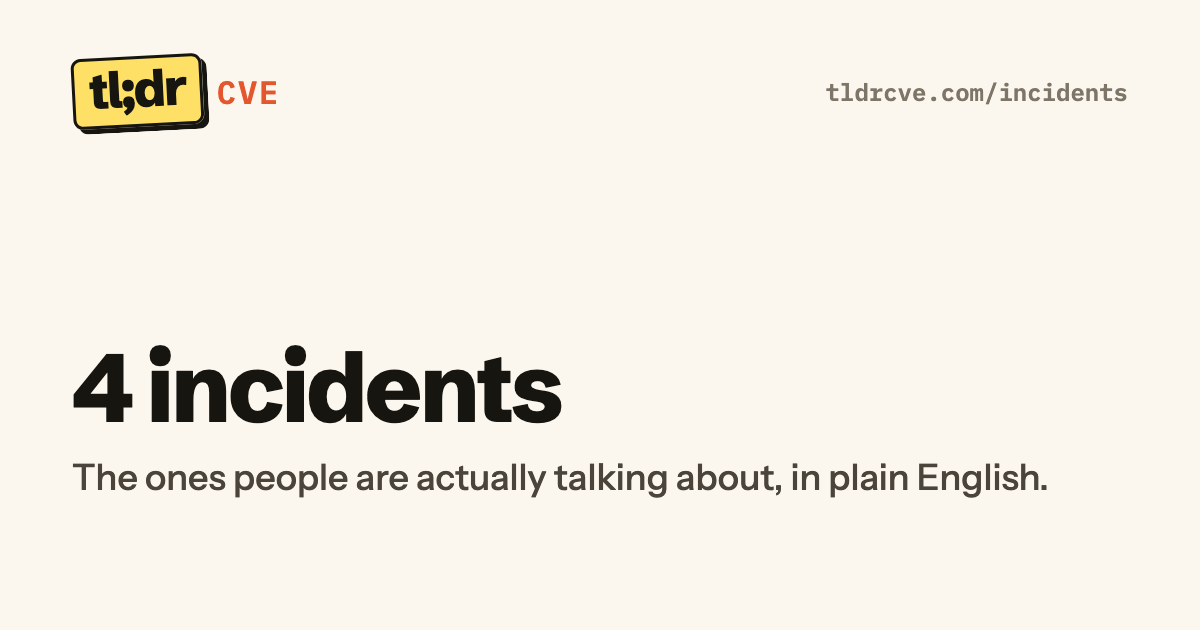
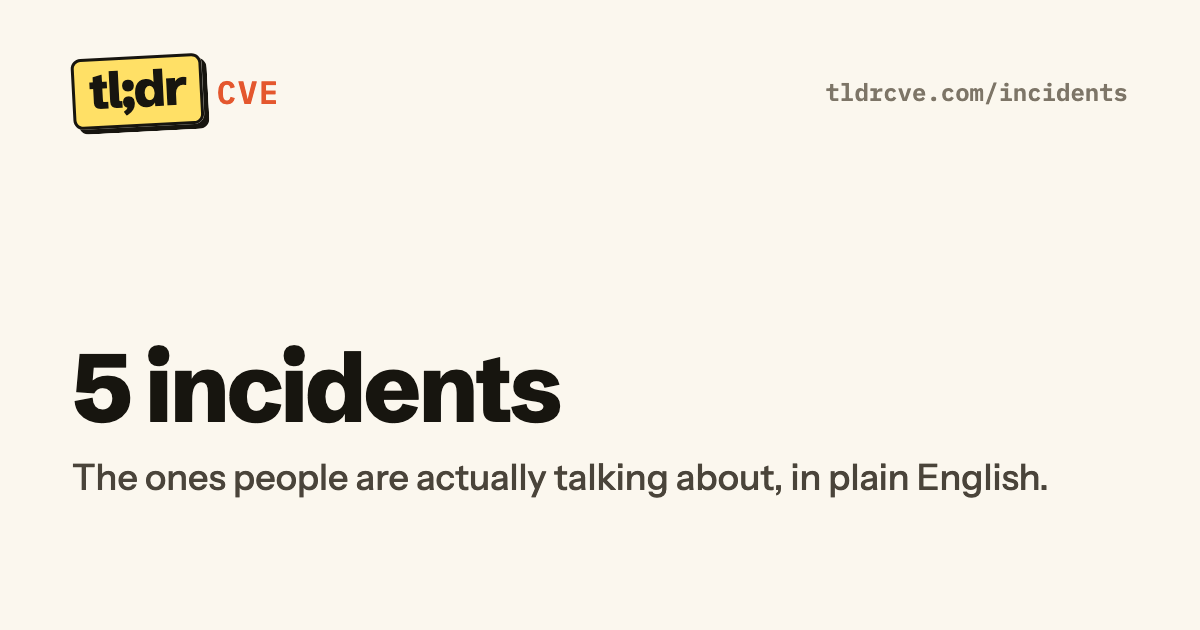
Add Todoist breach incident page; incidents use their own scale everywhere
- New incident page: Todoist breach (Nov 2026). A stolen version control
  credential led to Todoist's production systems; emails and salted SHA1
  password hashes of about 6% of users were taken, plus some tokens and
  secrets. Severe; no CVE.
- build.py: llms.txt, the page and index JSON, feed categories, the X share
  text, the small meters and the product and week lists now label incidents
  "Incident" and on the incident scale (Minor to Severe) instead of the
  patch verdict and scare-o-meter. /api/cves.json lists the incident labels.
- Cards: Todoist; home and Incidents counts redrawn.

Changed region(s): [[0.0617, 0.5429, 0.3083, 0.6937], [0.3392, 0.6032, 0.4625, 0.6635]]

diff --git a/build.py b/build.py
@@ -257,12 +257,13 @@ def gauge(scare: float, zones: list = None) -> str:
         </div>"""
 
 
-def mini_meter(scare: float) -> str:
-    # Same zones as the big gauge, so the tile and the page always agree.
-    filled = next((i + 1 for i, (limit, _, _) in enumerate(ZONES) if scare < limit), len(ZONES))
+def mini_meter(scare: float, zones: list = None) -> str:
+    # Same zones as the big gauge, so the tile and the page always agree (incidents use their own).
+    zones = zones or ZONES
+    filled = next((i + 1 for i, (limit, _, _) in enumerate(zones) if scare < limit), len(zones))
     segs = "".join(f'<span class="{"on" if i < filled else ""}"></span>' for i in range(4))
-    label, _ = zone(scare)
-    return f'<span class="mini-meter" data-level="{filled}" role="img" aria-label="Scare-o-meter: {label}">{segs}</span>'
+    label, _ = zone(scare, zones)
+    return f'<span class="mini-meter" data-level="{filled}" role="img" aria-label="{"How bad" if zones is INCIDENT_ZONES else "Scare-o-meter"}: {label}">{segs}</span>'
 
 
 # ---------- Brief page ----------
@@ -482,7 +483,7 @@ def versions_embed(pids: list) -> str:
 
 def toolbar(c: dict) -> str:
     url = f"{SITE_URL}/{c['slug']}/"
-    post = quote(f"{c['name']}{cve_paren(c)}: {VERDICTS[c['verdict']]}. Are you affected?")
+    post = quote(f"{c['name']}{cve_paren(c)}: {badge_text(c)}. Are you affected?")
     x = f"https://x.com/intent/post?text={post}&url={quote(url, safe='')}"
     li = f"https://www.linkedin.com/sharing/share-offsite/?url={quote(url, safe='')}"
     return f"""    <div class="toolbar">
@@ -695,7 +696,7 @@ def versions_page(v: dict, all_c: list) -> str:
         else:
             fix = '<span class="nofix">No fix yet</span>'
         bugs.append(f'''      <li class="vbug"><a href="/{c["slug"]}/">
-        <span class="vbug__top"><span class="vbug__name">{html.escape(c["name"])}</span><span class="verdict verdict--{c["verdict"]}">{VERDICTS[c["verdict"]]}</span></span>
+        <span class="vbug__top"><span class="vbug__name">{html.escape(c["name"])}</span>{badge(c)}</span>
         <span class="vbug__meta">{html.escape(cve_list(c) or "No CVE yet")} · {nice_date(c["disclosed"])}</span>
         <span class="vbug__fix">{fix}</span>
       </a></li>''')
@@ -913,7 +914,7 @@ def week_page(wk: dict, all_c: list) -> str:
     new_block = f'    <ul class="tiles">\n{new_tiles}\n    </ul>' if top else '    <p class="muted">No new pages.</p>'
     if rest:
         rest_rows = "\n".join(
-            f'        <li data-search="{html.escape(page_search(c) + " " + c["tile_line"].lower())}"><span class="verdict verdict--{c["verdict"]}">{VERDICTS[c["verdict"]]}</span><span><a href="/{c["slug"]}/">{html.escape(c["name"])}</a> <span class="muted">{text(c["tile_line"])}</span></span></li>'
+            f'        <li data-search="{html.escape(page_search(c) + " " + c["tile_line"].lower())}">{badge(c)}<span><a href="/{c["slug"]}/">{html.escape(c["name"])}</a> <span class="muted">{text(c["tile_line"])}</span></span></li>'
             for c in rest)
         rest_block = f"""
     <section class="pane" data-week-section>
@@ -1055,7 +1056,7 @@ def tile(c: dict, attrs: str = "", when: str = "") -> str:
           <span class="tile__meta"><span class="tile__product">{html.escape(product_short(c))}</span><span>· {when}</span></span>
           <span class="tile__name">{html.escape(c["name"])}</span>
           <span class="tile__line">{text(c["tile_line"])}</span>
-          <span class="tile__foot">{badge(c)}{roundup_tag(c)}{mini_meter(c["status"]["scare"])}</span>
+          <span class="tile__foot">{badge(c)}{roundup_tag(c)}{mini_meter(c["status"]["scare"], INCIDENT_ZONES if is_incident(c) else None)}</span>
         </a>
       </li>"""
 
@@ -1114,7 +1115,7 @@ def cves_page(all_c: list) -> str:
         rows.append(
             f"""      <li class="row{" row--incident" if is_incident(c) else ""}" data-search="{html.escape(search)}" data-scare="{c["status"]["scare"]}" data-disclosed="{c["disclosed"]}"{' data-incident="1" hidden' if is_incident(c) else ""}>
         <a href="/{c["slug"]}/">
-          <span class="row__meter">{mini_meter(c["status"]["scare"])}</span>
+          <span class="row__meter">{mini_meter(c["status"]["scare"], INCIDENT_ZONES if is_incident(c) else None)}</span>
           <span class="row__main">
             <span class="row__name">{html.escape(c["name"])}</span>
             <span class="row__meta">{html.escape(product_short(c))} · {html.escape(cve_list(c) or "No CVE yet")}</span>
@@ -1176,7 +1177,7 @@ def incidents_page(all_c: list) -> str:
                            *c.get("aliases", [])]).lower()
         rows.append(f"""      <li class="row" data-search="{html.escape(search)}" data-scare="{c["status"]["scare"]}" data-disclosed="{when}">
         <a href="/{c["slug"]}/">
-          <span class="row__meter">{mini_meter(c["status"]["scare"])}</span>
+          <span class="row__meter">{mini_meter(c["status"]["scare"], INCIDENT_ZONES if is_incident(c) else None)}</span>
           <span class="row__main">
             <span class="row__name">{html.escape(c["name"])}</span>
             <span class="row__meta">{html.escape(product_short(c))} · {html.escape(cve_list(c) or "No CVE")}</span>
@@ -1607,7 +1608,7 @@ def feed_entries(all_c: list, weeks: bool = True) -> list:
         new = t == "Published."
         s = c["status"]
         tags = [("type", "New page" if new else "Update"), ("verdict", badge_text(c)),
-                ("scare", zone(s["scare"])[0]), ("exploit", EXPLOIT_LABELS[s["exploit"]][1]),
+                ("scare", scare_label(c)), ("exploit", EXPLOIT_LABELS[s["exploit"]][1]),
                 ("attacks", ATTACK_LABELS[s["attacks"]][1])]
         if s.get("kev"):
             tags.append(("kev", "On CISA's exploited list"))
@@ -1711,8 +1712,9 @@ def write_redirects(all_c: list) -> None:
 
 # ---------- Data for agents: /llms.txt, /<slug>.json, /versions/<id>.json, /api/cves.json ----------
 
-def scare_label(scare: float) -> str:
-    return zone(scare)[0]
+def scare_label(c: dict) -> str:
+    """The meter's label: patch urgency for vulnerabilities, how bad it is for incidents."""
+    return zone_for(c)[0]
 
 
 def version_data(pid: str, all_c: list) -> dict:
@@ -1730,7 +1732,7 @@ def page_data(c: dict) -> dict:
              "lines": [{k: l[k] for k in ("line", "latest", "released", "note") if k in l} for l in VERSIONS[pid]["lines"]],
              **({"older": VERSIONS[pid]["older"]} if VERSIONS[pid].get("older") else {})} for pid in pids]
     return {"url": f'{SITE_URL}/{c["slug"]}/', "json": f'{SITE_URL}/{c["slug"]}.json',
-            "verdict_label": VERDICTS[c["verdict"]], "scare_label": scare_label(c["status"]["scare"]),
+            "verdict_label": badge_text(c), "scare_label": scare_label(c),
             **c, **({"safe_versions": safe} if safe else {})}
 
 
@@ -1738,7 +1740,7 @@ def index_row(c: dict) -> dict:
     s = c["status"]
     row = {k: c[k] for k in ("slug", "name", "cves", "product", "verdict") if k in c}
     row.update({"kind": c.get("kind", "vulnerability"), "verdict_label": badge_text(c), "tile_line": c["tile_line"], "scare": s["scare"],
-                "scare_label": scare_label(s["scare"]), "exploit": s["exploit"], "attacks": s["attacks"],
+                "scare_label": scare_label(c), "exploit": s["exploit"], "attacks": s["attacks"],
                 "kev": s["kev"]})
     row.update({k: c[k] for k in ("tldr", "ghsa", "also_in") if c.get(k)})
     if "no_login" in s:
@@ -1773,7 +1775,7 @@ def write_data(all_c: list) -> None:
     dump("api/cves.json", {
         "site": SITE_URL, "updated": max(c["updated"] for c in all_c),
         "about": "Every page on tldrcve.com, newest update first. Each page's full data is at its json URL.",
-        "verdicts": VERDICTS, "scare_labels": [z[1] for z in ZONES],
+        "verdicts": VERDICTS, "scare_labels": [z[1] for z in ZONES], "incident_scare_labels": [z[1] for z in INCIDENT_ZONES],
         "pages": [index_row(c) for c in by_update],
         "safe_versions": [{"id": pid, "name": v["name"], "checked": v["checked"], "url": f"{SITE_URL}/versions/{pid}/",
                            "json": f"{SITE_URL}/versions/{pid}.json"} for pid, v in VERSIONS.items()],
@@ -1816,7 +1818,7 @@ def write_data(all_c: list) -> None:
     for c in by_update:
         ids = ", ".join(c["cves"][:3]) + (f" +{len(c['cves']) - 3} more" if len(c["cves"]) > 3 else "")
         lines.append(f'- [{c["name"]}]({SITE_URL}/{c["slug"]}/): {product_full(c)}'
-                     + (f" ({ids})" if ids else "") + f'. {VERDICTS[c["verdict"]]} · {scare_label(c["status"]["scare"])}. '
+                     + (f" ({ids})" if ids else "") + f'. {badge_text(c)} · {scare_label(c)}. '
                      + flat(c["tile_line"]) + f' Updated {c["updated"]}.')
     if WEEKS:
         lines += ["", "## Weekly reviews", "", f"- [All weeks]({SITE_URL}/week/): new pages, changes and the dates coming up, week by week"]
